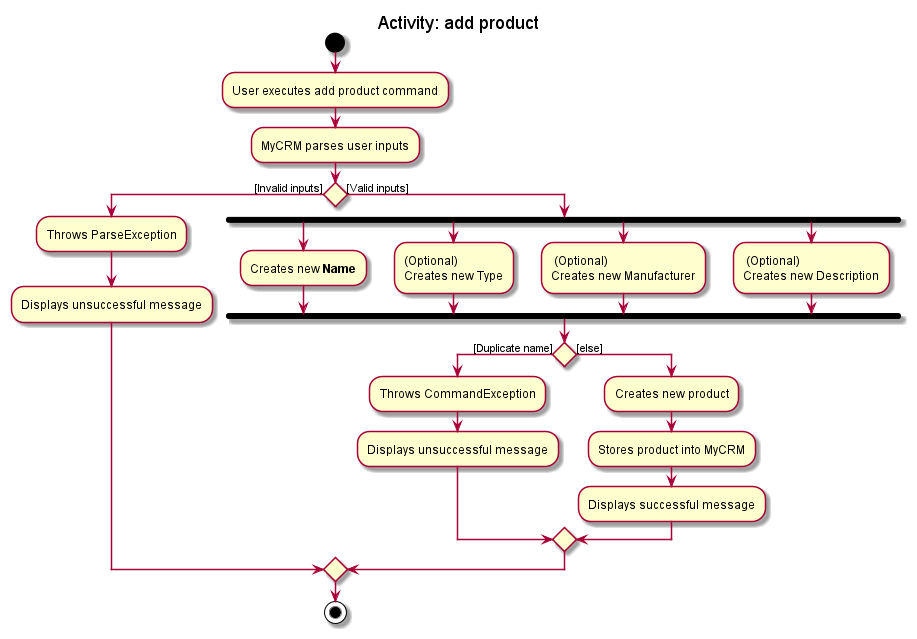
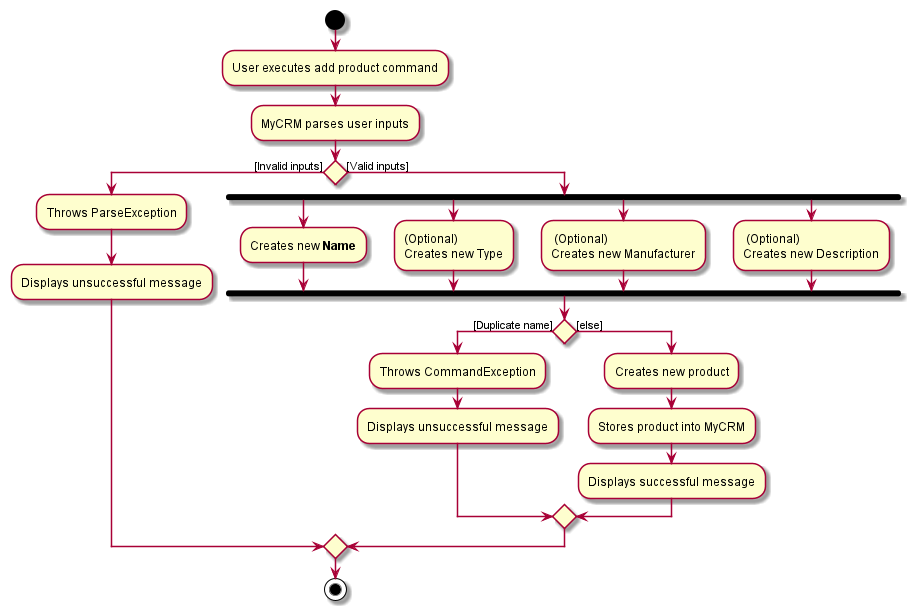
DG: Remove diagram headers; add manual test instruction for theme

Changed region(s): [[0.0, 0.0, 1.0, 0.9562]]

diff --git a/docs/DeveloperGuide.md b/docs/DeveloperGuide.md
@@ -530,11 +530,11 @@ The **Adding a Product** mechanism is facilitated by `MyCRM`. This product creat
 
 The activity diagram below illustrates how the events of `addProduct` command behave when executed by user:
 
-![![Activity diagram of add product](images/product/AddProductActivityDiagram.png)](images/product/AddProductActivityDiagram.png)
+![Activity diagram of add product](images/product/AddProductActivityDiagram.png)]
 
 Given below is an example usage scenario and how the mechanism behaves at each step.
 
-![![Sequence diagram of add product](images/product/AddProductSequenceDiagram.png)](images/product/AddProductSequenceDiagram.png)
+![Sequence diagram of add product](images/product/AddProductSequenceDiagram.png)]
 
 **Parse user input**
 
@@ -544,7 +544,7 @@ component objects: name, type, manufacturer, description.
 
 **Note**: Name is *compulsory* for creating a product, whereas type, manufacturer and description are *optional* fields.
 
-![![Sequence diagram of parse user input](images/product/AddProductSequenceDiagram_Parse.png)](https://ay2122s1-cs2103-t14-3.github.io/tp/images/product/AddProductSequenceDiagram_Parse.png)
+[![Sequence diagram of parse user input](images/product/AddProductSequenceDiagram_Parse.png)](https://ay2122s1-cs2103-t14-3.github.io/tp/images/product/AddProductSequenceDiagram_Parse.png)
 
 ### Editing a Product
 
@@ -558,11 +558,11 @@ product</u>. Lastly, it replaces the target product with the new one, updates it
 
 The activity diagram below illustrates how the events of `editProduct` command behave when executed by user:
 
-![![Activity diagram of edit product](images/product/EditProductActivityDiagram.png)](images/product/EditProductActivityDiagram.png)
+![Activity diagram of edit product](images/product/EditProductActivityDiagram.png)
 
 Given below is an example usage scenario and how the mechanism behaves at each step.
 
-![![Sequence diagram of edit product](images/product/EditProductSequenceDiagram.png)](https://ay2122s1-cs2103-t14-3.github.io/tp/images/product/EditProductSequenceDiagram.png)
+[![Sequence diagram of edit product](images/product/EditProductSequenceDiagram.png)](https://ay2122s1-cs2103-t14-3.github.io/tp/images/product/EditProductSequenceDiagram.png)
 
 **Parse user input**
 
@@ -574,7 +574,7 @@ Within `EditProductCommandParser#parse`,
 `ArgumentMultimap#getValue` to extract product name “Asus” and description “DisplayPort, HDMI” from user input 
 respectively.
 
-![![Sequence diagram of parse user input](images/product/EditProductSequenceDiagram_Parse.png)](https://ay2122s1-cs2103-t14-3.github.io/tp/images/product/EditProductSequenceDiagram_Parse.png)
+[![Sequence diagram of parse user input](images/product/EditProductSequenceDiagram_Parse.png)](https://ay2122s1-cs2103-t14-3.github.io/tp/images/product/EditProductSequenceDiagram_Parse.png)
 
 **Updates product references in jobs**
 
@@ -589,7 +589,7 @@ restored.
 `Model`. `EditProductCommand` is implemented in the other way as directly accessing and modifying `UniqueJobList` leads to an
 association between `EditProductCommand` and `UniqueJobList`, which increases coupling.
 
-![![Sequence diagram of parse user input](images/product/EditProductSequenceDiagram_Sync.png)](images/product/EditProductSequenceDiagram_Sync.png)
+![Sequence diagram of update product references](images/product/EditProductSequenceDiagram_Sync.png)
 
 
 
@@ -1302,6 +1302,13 @@ testers are expected to do more *exploratory* testing.
 
    1. Re-launch the app by double-clicking the jar file.<br>
        Expected: The most recent window size and location is retained.
+
+1. Saving theme preferences
+
+    1. [Choose a theme](UserGuide.md#changing-the-theme-of-user-interface-theme) of GUI. Close the window.
+
+    1. Re-launch the app by double-clicking the jar file.<br>
+       Expected: The most recent theme is retained.
 
 1. _{ more test cases … }_
 
